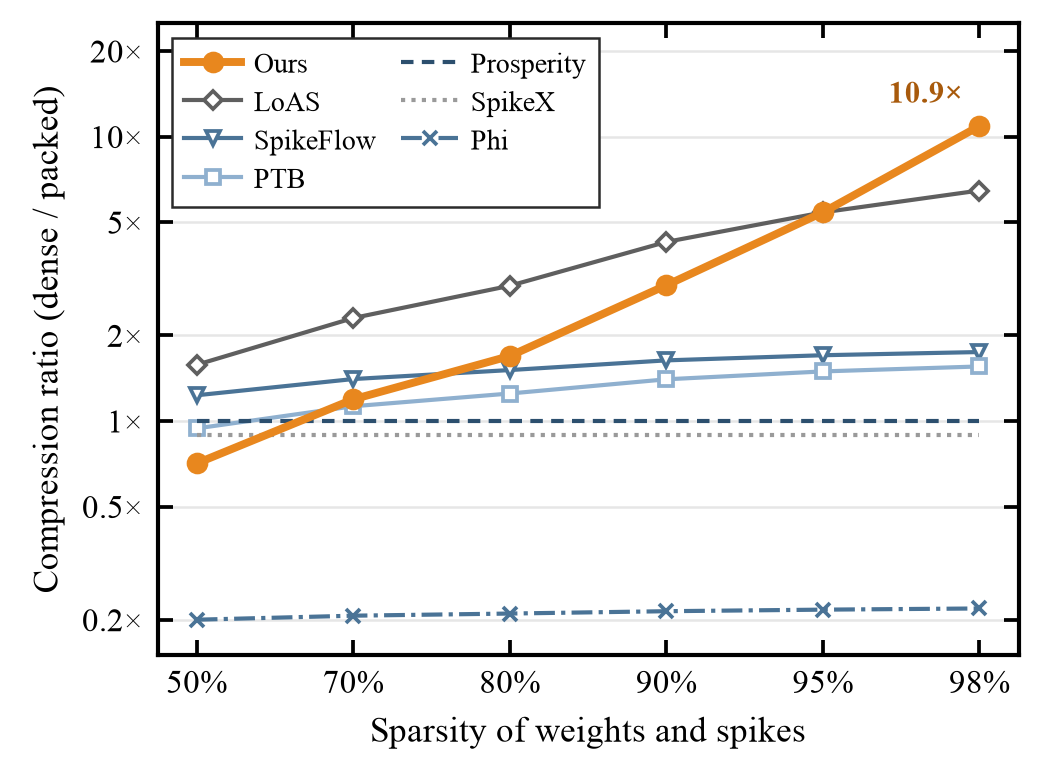
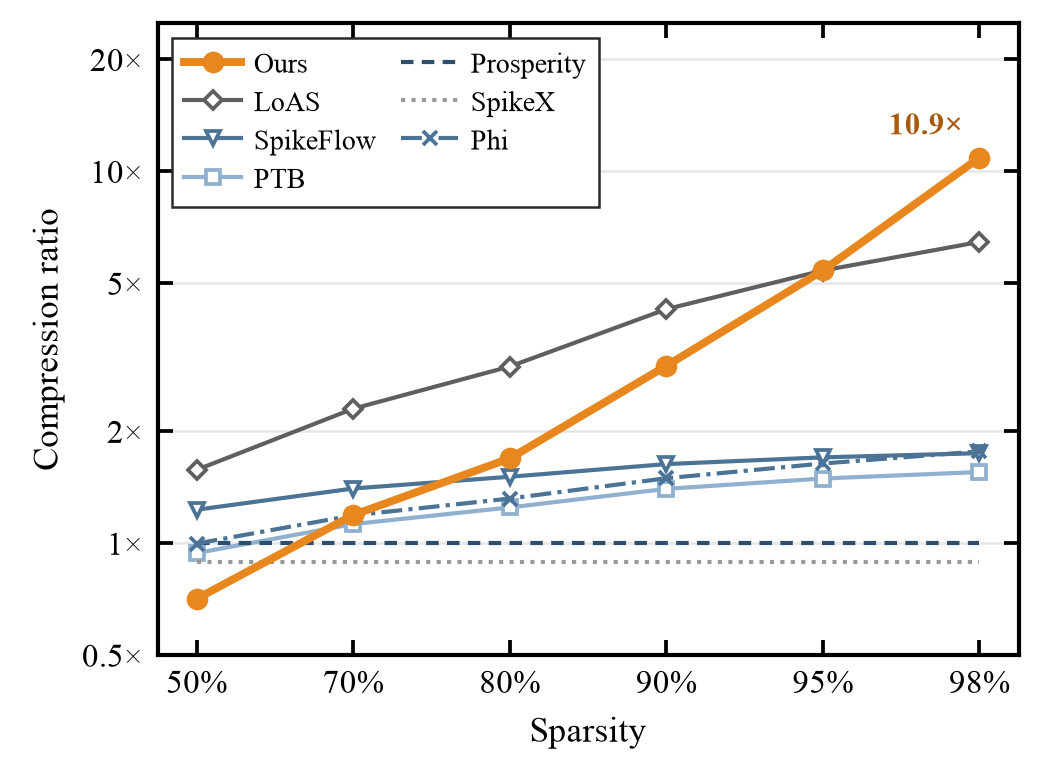
Compression: Phi's precomputed pattern-weight products not counted as weight storage; axis labels

diff --git a/dac2027_sim/storage_compression.py b/dac2027_sim/storage_compression.py
@@ -20,8 +20,10 @@ lossless width is used (favours that baseline):
               TBs paired (greedy, 1's complement first); per slot T bits + 1 owner bit per TW when paired +
               ceil(log2 K)-bit address per neuron; plus the TB-tags (T/TWS bits per neuron) that the trimming reads.
               Layout not given in the paper; best TWS of {1, 2, 4}.
-  Phi         weights dense 8-bit + all pattern-weight products (q=128 per 16-input partition and output), 8 bit:
-              (8 + 128*8)/(16*8) = 9x the dense weights = the paper's "9x dense without the prefetcher" (Fig 12b).
+  Phi         weights dense 8-bit (Phi does not compress weights). Its pattern-weight products (PWPs) are
+              precomputed partial results, not a representation of W, so they are not counted -- like Prosperity's
+              product-sparsity table. (Counting all PWPs at 8 bit would add 8x the dense weights, the paper's "9x
+              dense without the prefetcher", Fig 12b.)
               Spikes: L1 pattern index matrix as a bitmask (1 bit per row segment) + 7-bit index per patterned
               segment; L2 packs (Sec 4.2.2): one partial-sum unit per row segment with corrections + one unit per
               +-1 correction, unit = 1-bit label + 4-bit column + 1-bit value. Field widths are not given in the
@@ -167,8 +169,8 @@ def phi_act_bits(X, Xcal=None, k=16, q=128, idx_bits=7, unit=6):
     return bits
 
 
-def phi_bits(W, S, q=128, k=16, pwp_bits=8):
-    wb = 8 * M * K + q * math.ceil(K / k) * M * pwp_bits
+def phi_bits(W, S, q=128, k=16):
+    wb = 8 * M * K
     return wb, phi_act_bits(spike_rows(S).T.T, None, k, q)        # rows = timestep x pixel, columns = K
 
 
@@ -255,16 +257,16 @@ def plot():
             ax.annotate(f"{y[-1]:.1f}\u00d7", (x[-1], y[-1]), xytext=(-4, 4), textcoords="offset points",
                         ha="right", va="bottom", fontsize=7.5, color="#a85a0c", fontweight="bold")
     ax.set_yscale("log")
-    ticks = [0.2, 0.5, 1, 2, 5, 10, 20]
+    ticks = [0.5, 1, 2, 5, 10, 20]
     ax.yaxis.set_major_locator(FixedLocator(ticks))
     ax.yaxis.set_major_formatter(FixedFormatter([f"{t:g}\u00d7" for t in ticks]))
     ax.yaxis.set_minor_locator(NullLocator())
-    ax.set_ylim(0.15, 25)
+    ax.set_ylim(0.5, 25)
     ax.set_xticks(x, [f"{100 * s:g}%" for s in SPARSITY])
     ax.set_xlim(-0.25, len(x) - 0.75)
     ax.tick_params(labelsize=8)
-    ax.set_xlabel("Sparsity of weights and spikes", fontsize=8.5)
-    ax.set_ylabel("Compression ratio (dense / packed)", fontsize=8.5)
+    ax.set_xlabel("Sparsity", fontsize=8.5)
+    ax.set_ylabel("Compression ratio", fontsize=8.5)
     ax.yaxis.grid(True, ls="-", color="#e6e6e6", lw=0.6, zorder=0)
     h, l = ax.get_legend_handles_labels()
     PS.inside_legend(ax, h, l, ncol=2, loc="upper left", handlelength=2.0, fontsize=6.8)

diff --git a/dac2027_sim/results/compression_validation.md b/dac2027_sim/results/compression_validation.md
@@ -4,12 +4,12 @@
 
 | Sparsity | Ours | LoAS | PTB | Phi | SpikeFlow | SpikeX | Prosperity |
 |---|---:|---:|---:|---:|---:|---:|---:|
-| 50% | 0.71 | 1.58 | 0.94 | 0.20 | 1.23 | 0.89 | 1.00 |
-| 70% | 1.19 | 2.30 | 1.13 | 0.21 | 1.40 | 0.89 | 1.00 |
-| 80% | 1.69 | 2.99 | 1.25 | 0.21 | 1.51 | 0.89 | 1.00 |
-| 90% | 3.00 | 4.26 | 1.40 | 0.21 | 1.63 | 0.89 | 1.00 |
-| 95% | 5.41 | 5.41 | 1.49 | 0.22 | 1.70 | 0.89 | 1.00 |
-| 98% | 10.88 | 6.46 | 1.55 | 0.22 | 1.75 | 0.89 | 1.00 |
+| 50% | 0.71 | 1.58 | 0.94 | 1.00 | 1.23 | 0.89 | 1.00 |
+| 70% | 1.19 | 2.30 | 1.13 | 1.19 | 1.40 | 0.89 | 1.00 |
+| 80% | 1.69 | 2.99 | 1.25 | 1.32 | 1.51 | 0.89 | 1.00 |
+| 90% | 3.00 | 4.26 | 1.40 | 1.50 | 1.63 | 0.89 | 1.00 |
+| 95% | 5.41 | 5.41 | 1.49 | 1.64 | 1.70 | 0.89 | 1.00 |
+| 98% | 10.88 | 6.46 | 1.55 | 1.77 | 1.75 | 0.89 | 1.00 |
 
 Formats (paper sources; where a width is not given, the choice that reproduces the paper's own measured numbers, else the smallest lossless one):
 
@@ -18,7 +18,7 @@ Formats (paper sources; where a width is not given, the choice that reproduces t
 | Ours | per packed column 4 x (8-bit weight + 2-bit filter label) + 4 x 6-bit filter id | per group 32 spike bits + 32 x 2-bit pixel labels + 4 x 7-bit pixel id + 3-bit count | our RTL (`ours_core.v`, `tb_ours_closed.v`) |
 | LoAS | 128-position bitmask fibre + 8-bit non-zeros + 10-bit pointer | 1 bit/neuron + T bits per non-silent neuron + pointer | LoAS Sec IV-A, V (pointer width not given) |
 | PTB | dense 8-bit | StSAP stream: TB-tags + T bits per slot + owner bit per TW for pairs + 11-bit neuron address; best TWS | PTB Sec 4.4, Table 4; "no data compression is applied to binary input data" (Sec 6.1.1); slot layout not given |
-| Phi | dense 8-bit + 128 x 8-bit pattern-weight products per 16 inputs (9x dense) | pattern-index bitmask + 7-bit index per patterned segment + 6-bit units (1 partial-sum unit per corrected row + 1 per +-1 correction) | Phi Sec 3, 4.2.2, Fig 12; widths fitted to Fig 12 |
+| Phi | dense 8-bit (precomputed pattern-weight products not counted: they are partial results, not a form of W) | pattern-index bitmask + 7-bit index per patterned segment + 6-bit units (1 partial-sum unit per corrected row + 1 per +-1 correction) | Phi Sec 3, 4.2.2, Fig 12; widths fitted to Fig 12 |
 | Prosperity | dense 8-bit | dense bits (product sparsity saves computation, not storage) | Prosperity Sec II-A, VII-A |
 | SpikeX | dense 8-bit | dense bits + 1-bit activity tag per neuron per TW (TWS=4) | SpikeX Sec III-D |
 | SpikeFlow | dense | 1-bit silence label per neuron + T bits per non-silent neuron | SpikeFlow Sec 4.2 |
